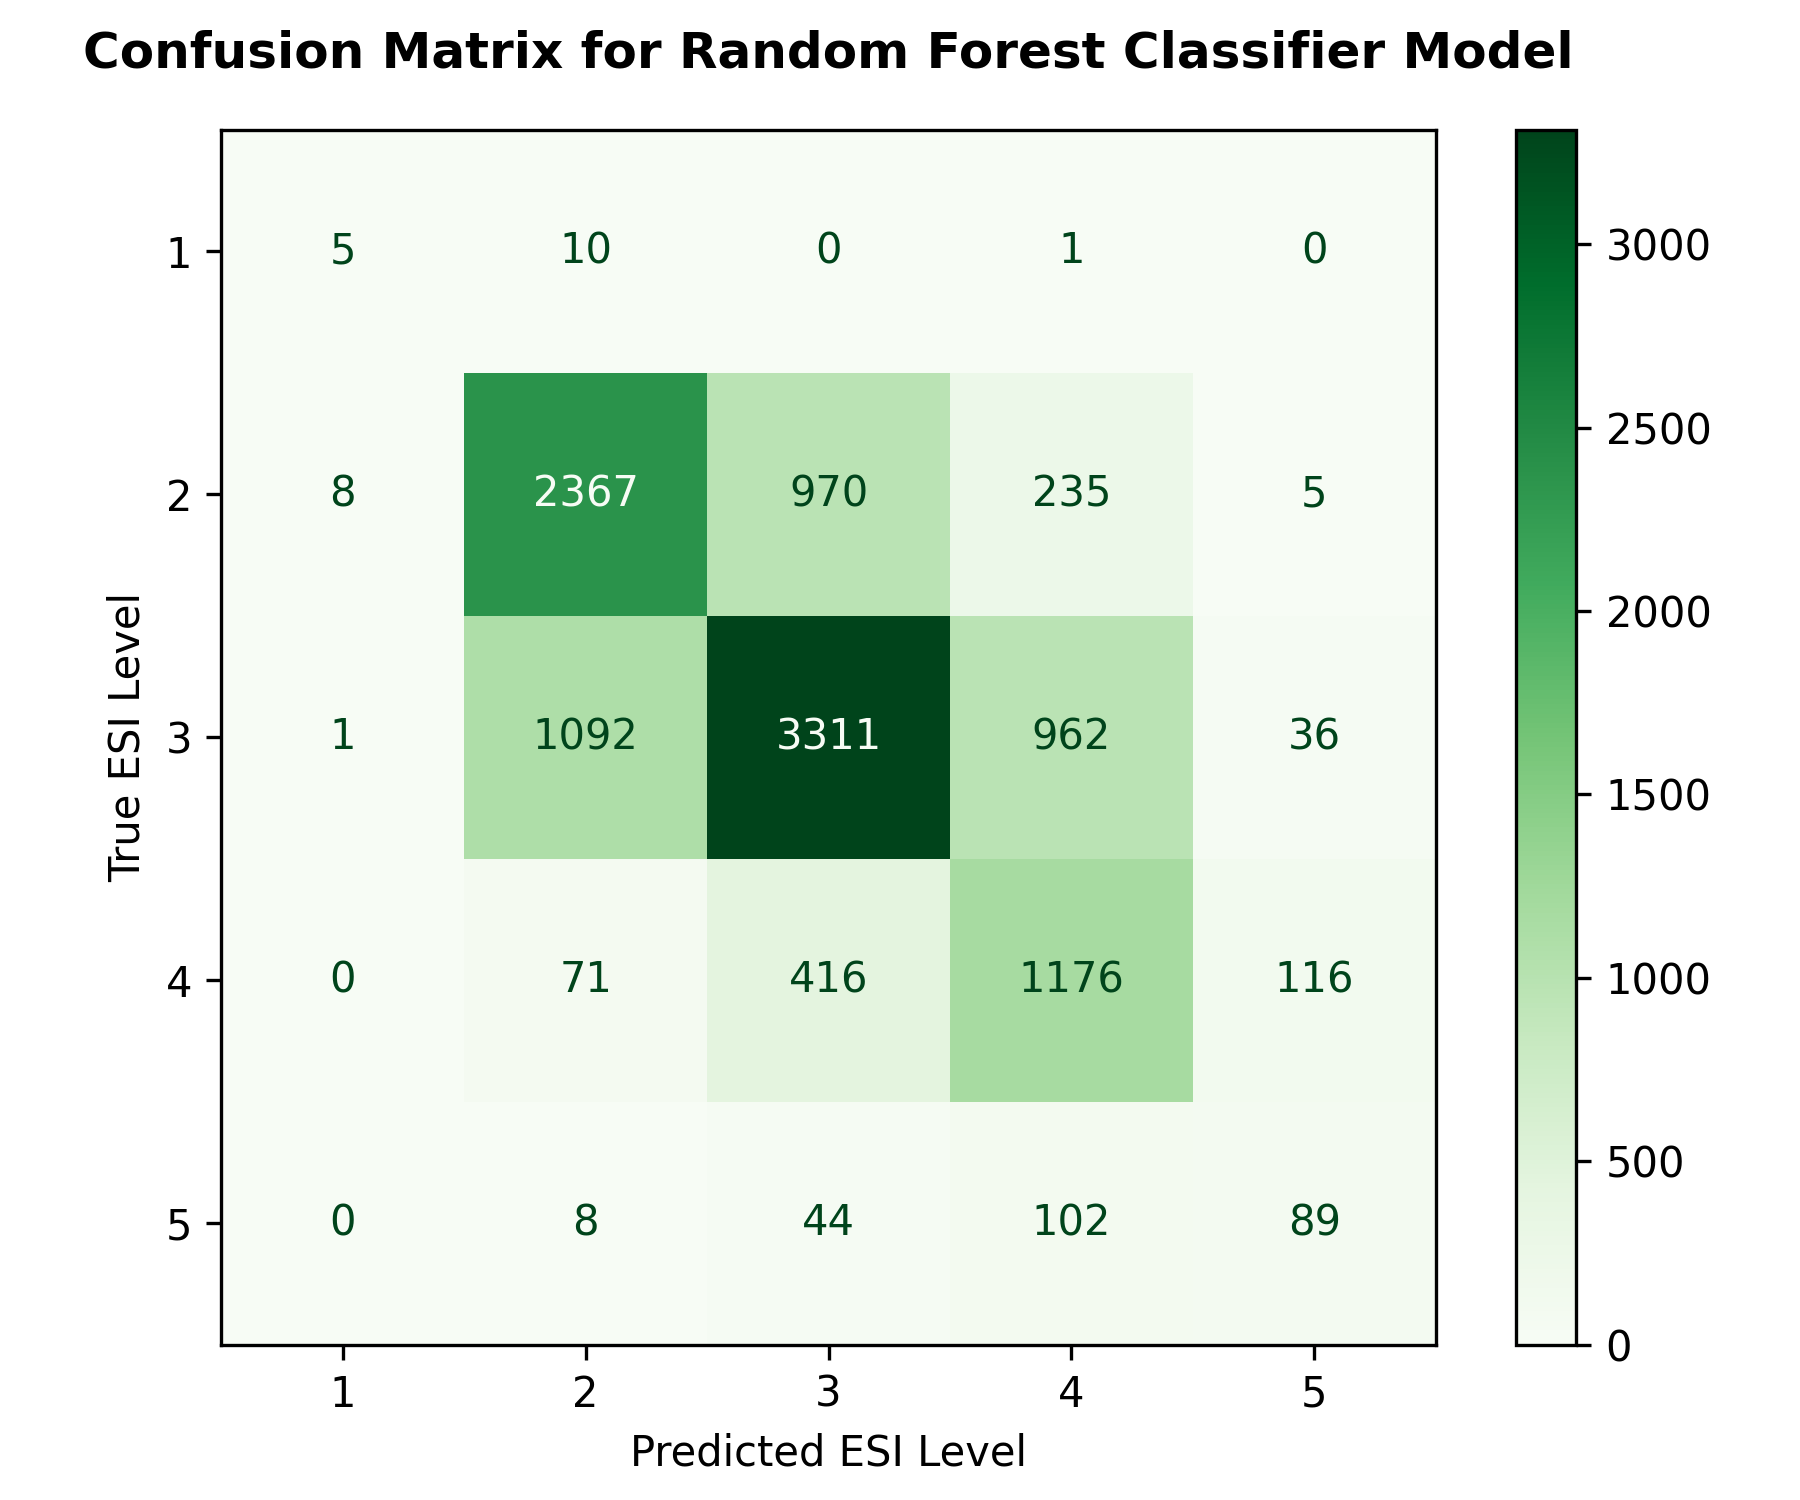
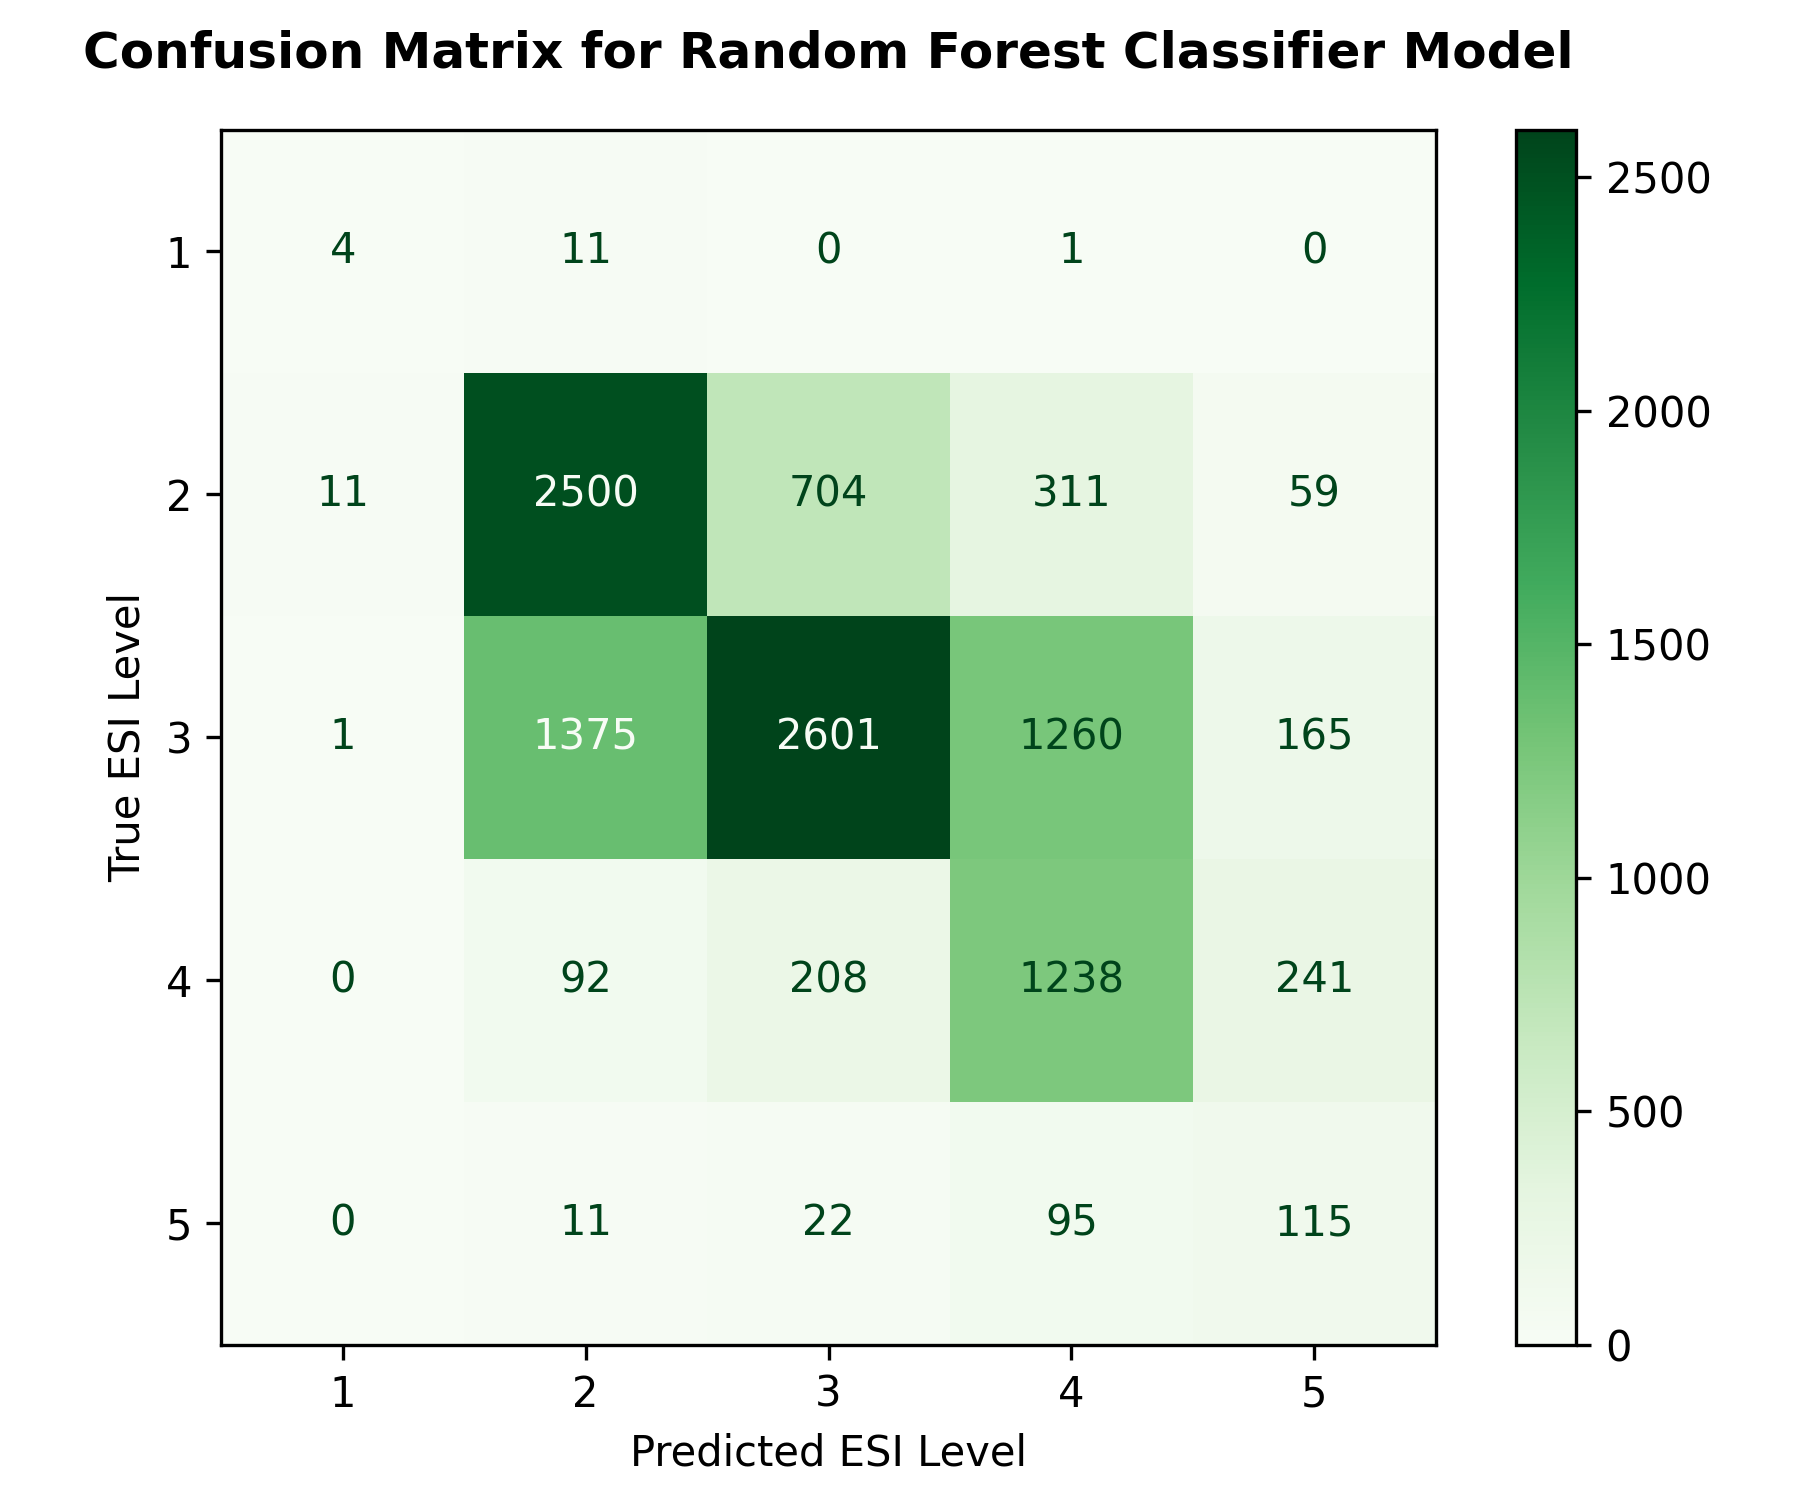
added the advanced model confusion matrcies and the cost-benefit memo

diff --git a/docs/week-7/cost-benefit-memo.md b/docs/week-7/cost-benefit-memo.md
@@ -1,0 +1,91 @@
+# **Cost Benefit Memo For Machine Learning-Based Classifiers for Emergency Department Triage**
+
+**Author** Rhys Brown <br>
+**Dates:** 20/7/2026
+
+## **Verdict**
+
+> [!IMPORTANT]
+> The **Random Forest** model is recommended for machine learning-based triage due to its low tendency to under-triage patients compared to the other models.
+
+## **Recap**
+### 1. Dataset:
+The dataset contains the triage data associated with 55,121 emergency department encounters within the United States. It consisted of Emergency Severity Index (ESI) score along with 225 other features taken from each encounter. 200 chief complaint variables and 25 vitals exist in the dataset.
+
+
+A major class imbalance exists between ESI level 1 and 5 cases, only making up roughly **0.13%** and **2%** of the total cases respectively, leaving little data for the models to learn on. 
+
+### 2. Method:
+A dummy classifier, decision tree and logistic regression model were trained on triage data with the goal of accurately predicting a acuity score. 
+
+Furthermore, features were mathematically-derived based on the vitals in order to train and Random Forest, Gradient Boosting and Multi-Layer Perceptron Model.
+
+Six (6) models in total were trained on the dataset and compared against one another:
+- **Dummy Classifier:** a classifier that select output classes based on simple rules, not based on patterns found in the data. It is used as a baseline to compare against the previous models.
+- **Decision Trees:** A machine learning algorithm that classifies data by a series of yes/no decisions. The depth of the model refers to number of decisions from the first decision to the final output. Maximum depth of 10 was chosen to ensure the model was large enough whilst also not becoming too complex, learning from noise as opposed to genuine patterns.
+- **Logistic Regression:** a machine learning classifier that predicts the likelihood of a given class which is then mapped to a class based on whether it is above or below a threshold. '
+- **Random Forest:** a combination of decision trees that vote on the most likely class.
+- **Gradient Boosting:** an algorithm that incrementally improves a decision treee.
+- **Multi-layer Perceptron**: a small neural network made of perceptrons, a unit that combines linear combinations of previous results and a special math function to get an output.
+
+
+## **Benchmark Table**
+<br>
+
+**Table 1: Benchmark Table comparing the performance of six (6) Classifier Machine Learning Models on Triage Dataset**
+|Model|Accuracy|Recall ESI 1|Macro F1|Training Time|Inference Time|Explainability|
+|---|---|---|---|---|---|---|
+|Dummy Classifier|0\.38|0\.0|0\.2|4\.71 ms|0\.77 ms|N/A\. All results are generated randomly\.|
+|Decision Tree|0\.58|0\.0|0\.27|534\.48 ms|1\.92 ms|High\. A decision chain for each inference can be generated\.|
+|Logistic Regression|0\.67|0\.25|0\.49|9\.84 s|0\.17 ms|High\. The coefficient relating each feature to an increase in ESI can be found\.|
+|Random Forest|0\.59|0\.25|0\.46|26\.40 mins|18\.97 ms|Medium\. Model is harder to interpret than decision tree\.|
+|Gradient Boosting|0\.57|0\.38|0\.43|24\.72 mins|7\.04 ms|Medium\. Model is harder to interpret than decision tree and random forest\.|
+|Multi-Layer Perceptron|0\.6|0\.31|0\.45|8\.27 mins|1\.23 ms|Low\. Neural Networks are notoriously difficult for humans to interpret\.|
+<br>
+
+> [!NOTE]
+> Accuracy, Recall, F1-Score are measures of model performance:
+> - Accuracy: the fraction of predictions made by the model that were correct.
+> - Recall: the fraction of accurately predicted positives out of all true positives (0 - all false negatives, while 1- no false negatives).
+> - Precision: the fraction of predicted positives that were true positives for a given class. (0 - all false positives, while 1- no false positives).
+> - F1-score: a fraction balancing recall and precision that shows the overall discrimination ability of the model.
+>
+> Each of the above metrics exist in the range of [0, 1].
+
+
+## **Arguments supporting Verdict**
+### 1. Low Rates of Under-triage for ESI 2-5 :
+
+As seen in *Figure 1*, the Random Forest model has the highest number of class-wise true positives for all non-ESI 1 classes. This reduces the risk of false negatives for critical cases. In medicine, false negatives are especially dangerous as they lead to longer waiting times before receiving required treatment if it even is administered. Therefore, false negatives must be especially reduced.
+
+![6 Model Classifier Confusion Matricies](../week-7/figs/cm_classifiers.png "Logistic Regression Confusion Matrix")
+
+**Figure 1:** Figure showing the confusion matrix for six (6) classifier models on the dataset.
+
+### 2. Low clinical need for machine learning-based assistance in ESI 1 cases:
+As seen in the benchmark table, the Random Forest model is outperformed in terms of ESI 1 recall by the Gradient Boosting Classifier and the Multi-Layer Perceptron. However, it should be noted that based on conversations with medical professionals such as Dr. Loren De Freitas,  ESI 1 cases are typically so readily apparent that a model is not needed. <br> <br>
+Furthermore, in the case of such urgent cases, the formal procedure required to enter data into the model to receive a prediction will likely prove too time-intensive, rendering high ESI 1 recall unnecessary.
+
+### 3. Decent Explainability:
+Random Forest models have high level of explainability compared to neural networks such as the Multi-layer Perceptrons. Random Forest models expose feature importance which is crucial in helping clinicians understand how the model made its decision. <br> <br>
+This explainabiility is especially important for medical applications as physician are responsible for the decisions made. Therefore, they must understand how the AI arrived at its conclusion so they can second the opinion or override it.
+
+## **Arguments against Verdict**
+
+### 1. Lower Macro Accuracy and F1 score:
+As seen in the benchmark table, the Logistic Regression and Multi-layer Perceptron models both outperformed the Random Forest in terms of accuracy. <br><br>
+However, this weakness is mitigated by the fact that the rate of under-triage is lower in the Random Forest model. Reducing under-triage is the single most important objective in creating a model that is safe for emergency department triage; therefore, lower overall accuracy is acceptable. 
+
+### 2. Long Inference Time
+The Random Forest model had the highest inference time by far at **18.97** milliseconds. This puts it at 2.69 times the inference time of the next closest model, the gradient boosting classifier. This as due to the large number of decision trees used in the model. <br> <br>
+That said, at less than one 50th of a second, the inference time is so small that it is **not the rate-limiting step** in a machine learning-based triage system. The true rate-limiting step would likely be the time taken during data-entry.
+
+### 3. Long Training Time
+It was also observed that the Random Forest model had the longest training time. This was due to the long time required to find optimal hyperparameters (the researcher-defined settings for a given model). <br> <br>
+This is not a significant challenge as the training time was relatively short compared to the weeks that other machine learning algorithms take to train. Furthermore,  training is a one-time investment which would not need to be repeated after the model is deployed.
+
+## **Risks & Recommendation**
+
+The Random Forest model is superior fr our applications currently but it is not without risk. The overall generalizability of the model on a Caribbean dataset is not known as yet. Furthermore, the performance still has room for improvement. Finally, the model is only one part of a wider machine learning-based triage system. Therefore keen focus is required to ensure the devices and staff training do not become point of friction that limit overall system effectiveness. 
+
+The final recommendation of this report is to porceed with the Random Forest model with caution. Moreover, said model should be further optimized to improve accuracy, recall and F1-score.

diff --git a/docs/week-7/benchmark-table.md b/docs/week-7/benchmark-table.md
@@ -1,10 +1,16 @@
 # **Week 7 – Model Optimisation & Trade-offs**
-Benchmark Table <br>
-Name: Rhys Brown
+## **Benchmark Table** <br>
+Name: Rhys Brown <br><br>
 
 
 
-Model | Accuracy | Recall ESI 1 | Macro F1 | Training Time | Inference Time | Explainability |
+**Table 1: Benchmark Table comparing the performance of six (6) Classifier Machine Learning Models on Triage Dataset**
+|Model|Accuracy|Recall ESI 1|Macro F1|Training Time|Inference Time|Explainability|
 |---|---|---|---|---|---|---|
-Random Forest | 0.63 | 0.52 | 0.51 | 42 mins | 23.56ms | Medium |
+|Dummy Classifier|0\.38|0\.0|0\.2|6\.35 ms|1\.12 ms|**N/A.** All results are generated randomly\.|
+|Decision Tree|0\.58|0\.0|0\.27|1\.32 s|3\.66 ms|**High.** A decision chain for each inference can be generated\.|
+|Logistic Regression|0\.67|0\.25|0\.49|18\.71 s|0\.55 ms|**High.** The coefficient relating each feature to an increase in ESI can be found\.|
+|Random Forest|0\.59|0\.25|0\.46|26\.40 mins|52\.41 ms|**Medium.** Model is harder to interpret than decision tree\.|
+|Gradient Boosting|0\.57|0\.38|0\.43|24\.72 mins|4\.73 ms|**Medium.** Model is harder to interpret than decision tree and random forest\.|
+|Multi-Layer Perceptron|0\.67|0\.31|0\.46|6\.93 mins|3\.22 ms|**Low.** Neural Networks are notoriously difficult for humans to interpret\.|
 
